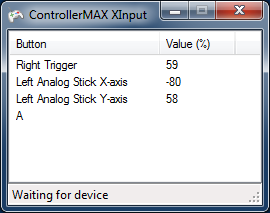
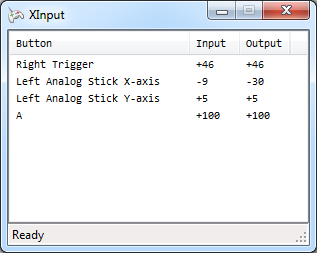
Changed ListView font and updated screenshot

diff --git a/XInput App/Form1.h b/XInput App/Form1.h
@@ -108,7 +108,6 @@ namespace ControllerMAX_XInput {
 					}
 
 					// Check output console and set button labels
-					// Just Xbox for now..
 					array<System::String^> ^buttonLabel = gcnew array<System::String^>(21);
 					buttonLabel[0] = "Guide";
 					buttonLabel[1] = "Back";
@@ -208,9 +207,9 @@ namespace ControllerMAX_XInput {
 			// statusStrip1
 			// 
 			this->statusStrip1->Items->AddRange(gcnew cli::array< System::Windows::Forms::ToolStripItem^  >(1) {this->toolStripStatusLabel1});
-			this->statusStrip1->Location = System::Drawing::Point(0, 153);
+			this->statusStrip1->Location = System::Drawing::Point(0, 193);
 			this->statusStrip1->Name = L"statusStrip1";
-			this->statusStrip1->Size = System::Drawing::Size(254, 22);
+			this->statusStrip1->Size = System::Drawing::Size(301, 22);
 			this->statusStrip1->TabIndex = 2;
 			this->statusStrip1->Text = L"statusStrip1";
 			// 
@@ -226,10 +225,12 @@ namespace ControllerMAX_XInput {
 				this->columnHeader3});
 			this->listView1->Dock = System::Windows::Forms::DockStyle::Fill;
 			this->listView1->Enabled = false;
+			this->listView1->Font = (gcnew System::Drawing::Font(L"Consolas", 8.25F, System::Drawing::FontStyle::Regular, System::Drawing::GraphicsUnit::Point, 
+				static_cast<System::Byte>(0)));
 			this->listView1->HeaderStyle = System::Windows::Forms::ColumnHeaderStyle::Nonclickable;
 			this->listView1->Location = System::Drawing::Point(0, 0);
 			this->listView1->Name = L"listView1";
-			this->listView1->Size = System::Drawing::Size(254, 153);
+			this->listView1->Size = System::Drawing::Size(301, 193);
 			this->listView1->TabIndex = 3;
 			this->listView1->UseCompatibleStateImageBehavior = false;
 			this->listView1->View = System::Windows::Forms::View::Details;
@@ -237,17 +238,17 @@ namespace ControllerMAX_XInput {
 			// columnHeader1
 			// 
 			this->columnHeader1->Text = L"Button";
-			this->columnHeader1->Width = 136;
+			this->columnHeader1->Width = 180;
 			// 
 			// columnHeader2
 			// 
 			this->columnHeader2->Text = L"Input";
-			this->columnHeader2->Width = 44;
+			this->columnHeader2->Width = 50;
 			// 
 			// columnHeader3
 			// 
 			this->columnHeader3->Text = L"Output";
-			this->columnHeader3->Width = 44;
+			this->columnHeader3->Width = 50;
 			// 
 			// notifyIcon
 			// 
@@ -290,7 +291,7 @@ namespace ControllerMAX_XInput {
 			// 
 			this->AutoScaleDimensions = System::Drawing::SizeF(6, 13);
 			this->AutoScaleMode = System::Windows::Forms::AutoScaleMode::Font;
-			this->ClientSize = System::Drawing::Size(254, 175);
+			this->ClientSize = System::Drawing::Size(301, 215);
 			this->Controls->Add(this->listView1);
 			this->Controls->Add(this->statusStrip1);
 			this->Icon = (cli::safe_cast<System::Drawing::Icon^  >(resources->GetObject(L"$this.Icon")));
